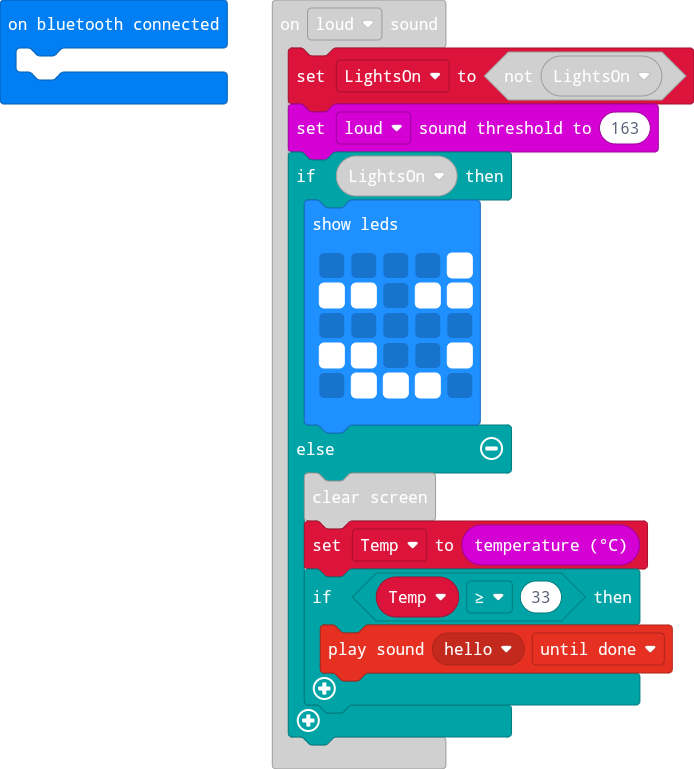
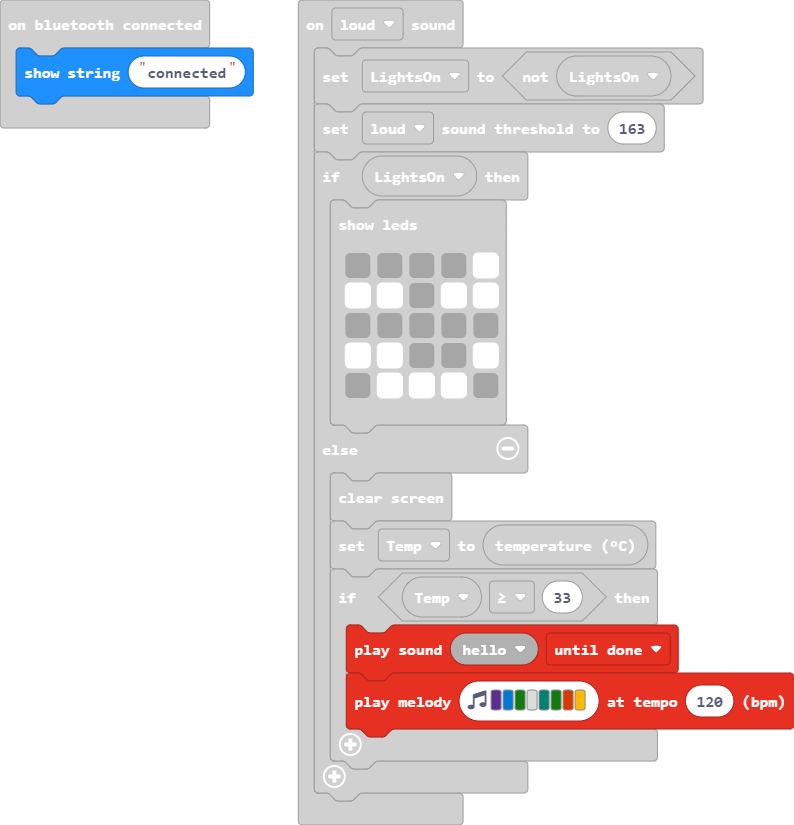
Update main.blocks, main.ts

diff --git a/main.ts b/main.ts
@@ -1,7 +1,7 @@
 let LightsOn = false
 let Temp = 0
 bluetooth.onBluetoothConnected(function () {
-	
+    basic.showString("connected")
 })
 input.onSound(DetectedSound.Loud, function () {
     LightsOn = !(LightsOn)
@@ -19,6 +19,7 @@ input.onSound(DetectedSound.Loud, function () {
         Temp = input.temperature()
         if (Temp >= 33) {
             music.playSoundEffect(music.builtinSoundEffect(soundExpression.hello), SoundExpressionPlayMode.UntilDone)
+            music.playMelody("D E G - F G B A ", 120)
         }
     }
 })
